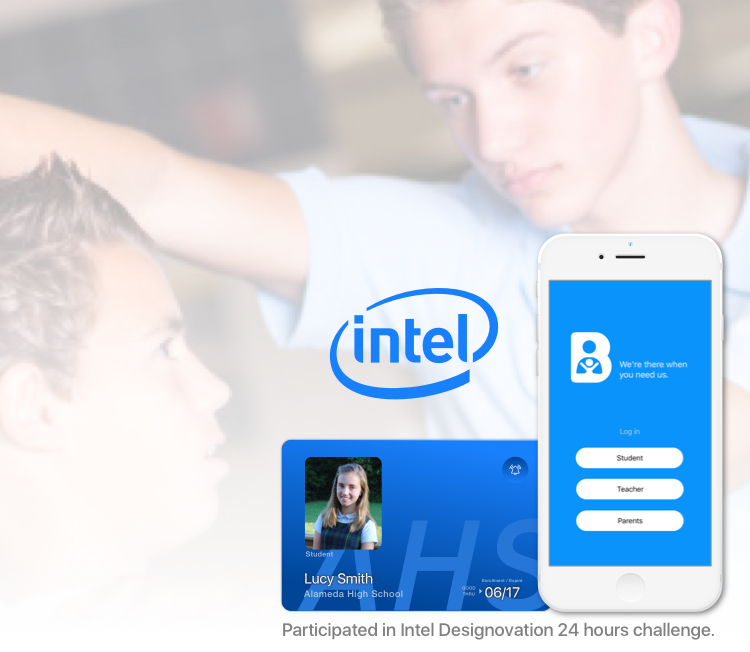
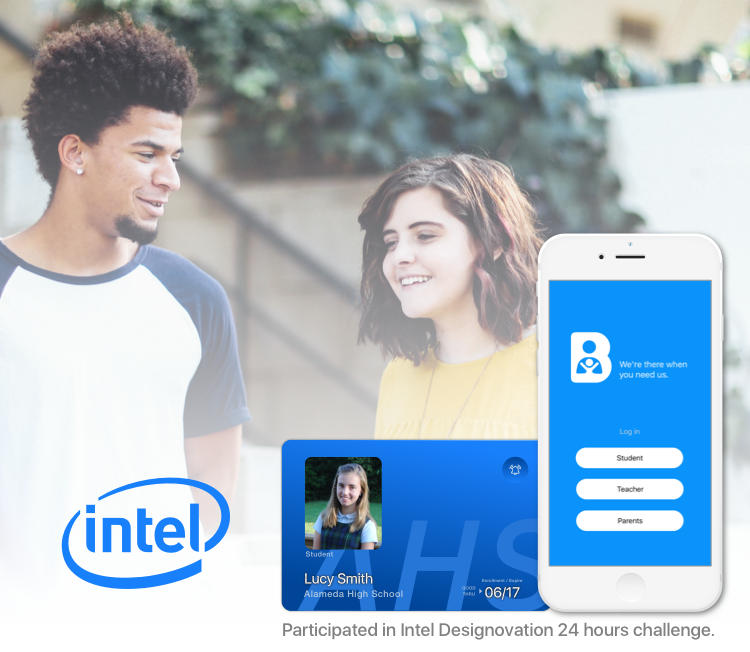
new heading image

diff --git a/bubble/index.html b/bubble/index.html
@@ -212,7 +212,7 @@ Not all students have access to a smartphone, but all students have an ID card. 
 
 <div id="appendix">
 <h2 class="parttitle">APPENDIX</h2>
-<p class="description mapdescription">Research information is from: <span class="hilight">Petrosina, Guckenberg, DeVoe + Hanson, 2010 <br /> Hawkins, Pepler + Craig, 2013</span><br />Photos are from <span class="hilight">internet</span><br /><br /><br /></p>
+<p class="description mapdescription">Research information is from: <span class="hilight">Petrosina, Guckenberg, DeVoe + Hanson, 2010 <br /> Hawkins, Pepler + Craig, 2013</span><br />Photos are from <span class="hilight">internet</span><br />Heading Image (unsplash.com):<span class="hilight"> <a target="_blank" href="https://www.alexisrbrown.com">Alexis Brown</a></span><br /><br /><br /></p>
 <!-- <p class="note1">What is Bubble?</p> -->
 
 </div>
